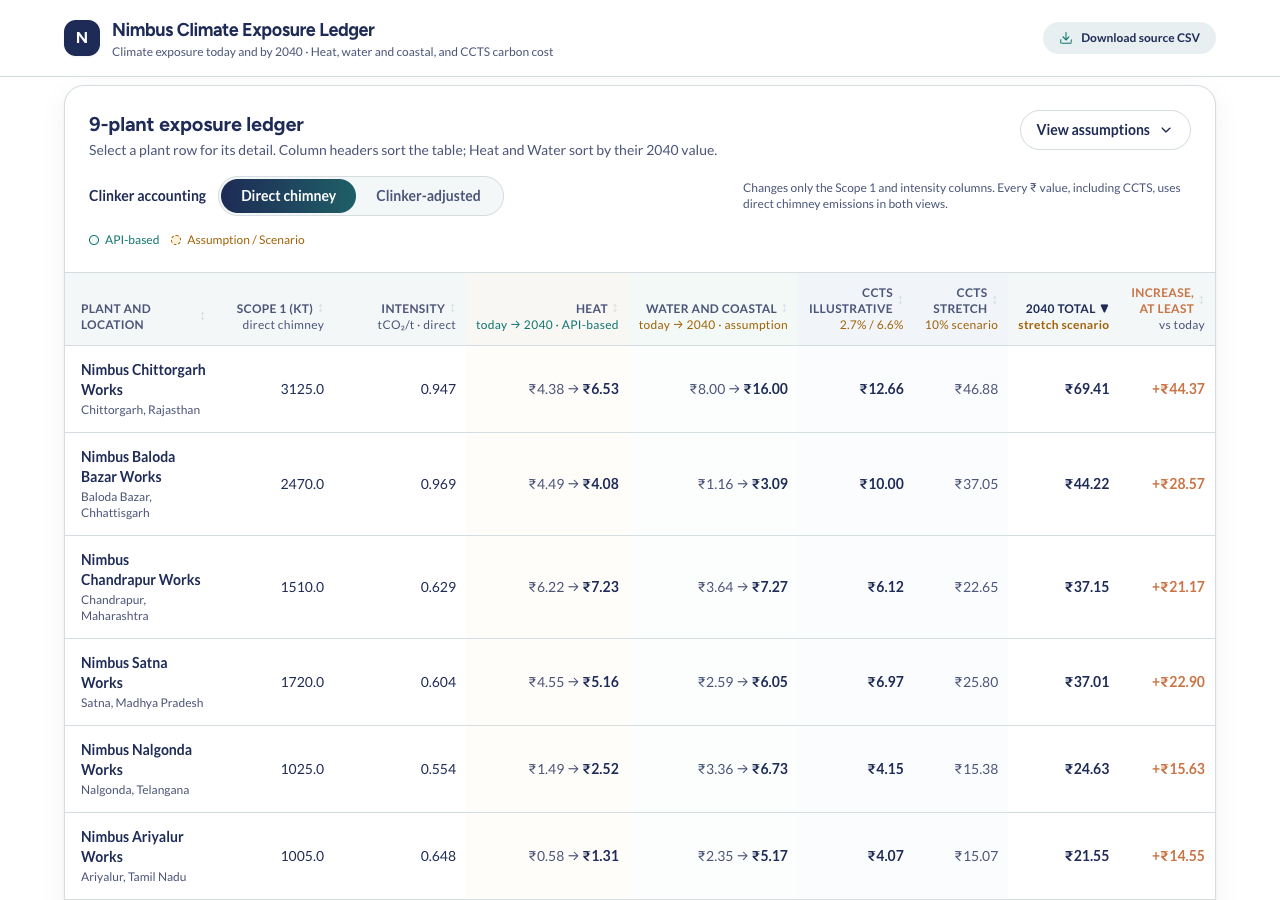
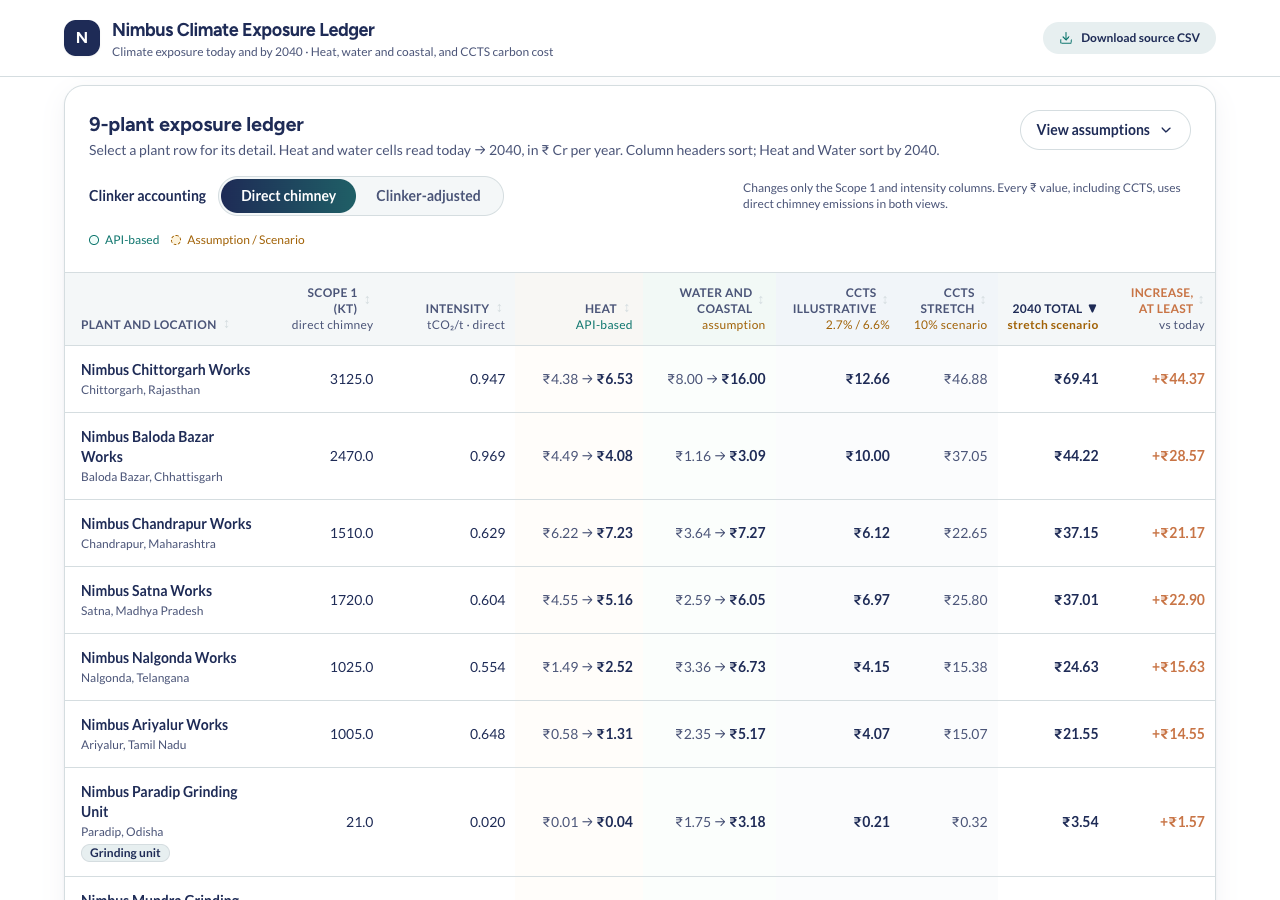
ui: stable header on sort, wider plant column, tablet overflow fix, consistent row hover, cleaner headers; refresh screenshots

diff --git a/src/App.tsx b/src/App.tsx
@@ -368,7 +368,7 @@ export default function App() {
         </section>
 
         {/* Three Decoupled KPI Cards */}
-        <section className="grid grid-cols-1 md:grid-cols-3 gap-6">
+        <section className="grid grid-cols-1 lg:grid-cols-3 gap-6">
           {/* KPI Card 1: Extreme Heat */}
           <div className="bg-white rounded-card p-6 border border-oren-line shadow-oren flex flex-col justify-between">
             <div className="space-y-3">
@@ -477,7 +477,7 @@ export default function App() {
             </div>
 
             <div className="mt-6 pt-5 border-t border-oren-line space-y-3">
-              <div className="flex items-baseline justify-between">
+              <div className="flex flex-wrap items-baseline justify-between gap-x-4 gap-y-3">
                 <div>
                   <div className="text-xs text-oren-muted mb-0.5">Stretch 10% scenario</div>
                   <div className="flex items-baseline gap-1.5">
@@ -531,9 +531,9 @@ export default function App() {
             <div className="flex flex-col sm:flex-row items-start sm:items-center gap-4 lg:gap-6 bg-white rounded-xl p-4 border border-oren-line">
               <div className="space-y-1">
                 <div className="text-xs text-oren-muted">Projected net annual increase, at least</div>
-                <div className="text-2xl font-display font-bold text-oren-navy tabular-nums">
+                <div className="text-2xl font-display font-bold text-oren-navy tabular-nums whitespace-nowrap">
                   +₹{deltaTotal.toFixed(2)}{' '}
-                  <span className="text-xs font-normal text-oren-muted">Cr / yr</span>
+                  <span className="text-xs font-normal text-oren-muted whitespace-nowrap">Cr / yr</span>
                 </div>
               </div>
 
@@ -583,7 +583,7 @@ export default function App() {
                   9-plant exposure ledger
                 </h2>
                 <p className="text-sm text-oren-muted mt-0.5">
-                  Select a plant row for its detail. Column headers sort the table; Heat and Water sort by their 2040 value.
+                  Select a plant row for its detail. Heat and water cells read today → 2040, in ₹ Cr per year. Column headers sort; Heat and Water sort by 2040.
                 </p>
               </div>
               <button
@@ -653,11 +653,11 @@ export default function App() {
               <thead className="bg-oren-surface text-xs font-semibold text-oren-muted uppercase tracking-wider border-b border-oren-line">
                 <tr>
                   {([
-                    { key: 'plant', label: 'Plant and location', sub: '', subCls: '', cls: 'px-4 min-w-[153px] text-left sticky left-0 z-10 bg-oren-surface shadow-[1px_0_0_#D5DDE0]' },
+                    { key: 'plant', label: 'Plant and location', sub: '', subCls: '', cls: 'px-4 min-w-[200px] text-left sticky left-0 z-10 bg-oren-surface shadow-[1px_0_0_#D5DDE0]' },
                     { key: 'scope1', label: 'Scope 1 (kt)', sub: clinkerAdjusted ? 'clinker-adjusted' : 'direct chimney', subCls: 'lowercase text-oren-muted', cls: 'px-2.5 min-w-[112px]' },
                     { key: 'intensity', label: 'Intensity', sub: `tCO₂/t · ${clinkerAdjusted ? 'adjusted' : 'direct'}`, subCls: 'normal-case text-oren-muted', cls: 'px-2.5 min-w-[132px]' },
-                    { key: 'heat2040', label: 'Heat', sub: 'today → 2040 · API-based', subCls: 'normal-case text-oren-teal', cls: 'px-2.5 bg-orange-50/40' },
-                    { key: 'water2040', label: 'Water and coastal', sub: 'today → 2040 · assumption', subCls: 'normal-case text-oren-amber', cls: 'px-2.5 bg-green-50/40' },
+                    { key: 'heat2040', label: 'Heat', sub: 'API-based', subCls: 'normal-case text-oren-teal', cls: 'px-2.5 bg-orange-50/40' },
+                    { key: 'water2040', label: 'Water and coastal', sub: 'assumption', subCls: 'normal-case text-oren-amber', cls: 'px-2.5 bg-green-50/40' },
                     { key: 'cctsNotified', label: 'CCTS illustrative', sub: '2.7% / 6.6%', subCls: 'lowercase text-oren-amber', cls: 'px-2.5 bg-slate-100' },
                     { key: 'ccts10', label: 'CCTS stretch', sub: '10% scenario', subCls: 'lowercase text-oren-amber', cls: 'px-2.5 bg-slate-100' },
                     { key: 'total2040', label: '2040 total', sub: 'stretch scenario', subCls: 'lowercase font-semibold text-oren-amber', cls: 'px-2.5 font-bold text-oren-navy' },
@@ -678,7 +678,7 @@ export default function App() {
                         >
                           <span className="inline-flex items-center gap-1 whitespace-normal">
                             {col.label}
-                            <span aria-hidden="true" className={active ? 'text-oren-navy' : 'text-oren-line'}>
+                            <span aria-hidden="true" className={`inline-block w-3 text-center ${active ? 'text-oren-navy' : 'text-oren-line'}`}>
                               {active ? (sort.dir === 'asc' ? '▲' : '▼') : '↕'}
                             </span>
                           </span>
@@ -698,21 +698,21 @@ export default function App() {
                     <tr
                       key={plant.plant_id}
                       onClick={() => setSelectedPlantId(isSelected ? null : plant.plant_id)}
-                      className={`cursor-pointer transition-colors hover:bg-oren-soft/60 ${
+                      className={`group cursor-pointer transition-colors hover:bg-oren-soft ${
                         isSelected ? 'bg-oren-soft font-medium' : ''
                       }`}
                     >
-                      <td className={`px-4 py-3.5 sticky left-0 z-10 shadow-[1px_0_0_#D5DDE0] ${isSelected ? 'bg-oren-soft' : 'bg-white'}`}>
+                      <td className={`px-4 py-3.5 sticky left-0 z-10 shadow-[1px_0_0_#D5DDE0] ${isSelected ? 'bg-oren-soft' : 'bg-white group-hover:bg-oren-soft'}`}>
                         <div className="font-semibold text-oren-navy flex items-center gap-1.5">
                           {plant.plant_name}
+                        </div>
+                        <div className="text-xs text-oren-muted mt-0.5 flex flex-wrap items-center gap-x-1.5 gap-y-1">
+                          {plant.town}, {plant.state}
                           {plant.plant_type === 'Grinding unit' && (
-                            <span className="inline-flex items-center whitespace-nowrap rounded-full px-2.5 py-0.5 text-xs font-semibold bg-oren-soft text-oren-navy border border-oren-line">
-                              GU
+                            <span title="Grinding unit" className="inline-flex items-center whitespace-nowrap rounded-full px-2 py-0 text-xs font-semibold bg-oren-soft text-oren-navy border border-oren-line">
+                              Grinding unit
                             </span>
                           )}
-                        </div>
-                        <div className="text-xs text-oren-muted mt-0.5">
-                          {plant.town}, {plant.state}
                         </div>
                       </td>
 
@@ -756,9 +756,9 @@ export default function App() {
               <tfoot className="bg-oren-surface font-bold text-oren-navy border-t-2 border-oren-line text-sm">
                 <tr>
                   <td className="px-4 py-3.5 sticky left-0 z-10 bg-oren-surface shadow-[1px_0_0_#D5DDE0]">
-                    <div>Fleet total (9 plants, reconciled)</div>
+                    <div>Fleet total, 9 plants</div>
                     <div className="text-xs font-normal text-oren-muted">
-                      Asset base: ₹15,450 Cr · Capacity: 23.00 MTPA
+                      ₹15,450 Cr assets · 23.00 MTPA
                     </div>
                   </td>
                   <td className="px-2.5 py-3.5 text-right tabular-nums">
